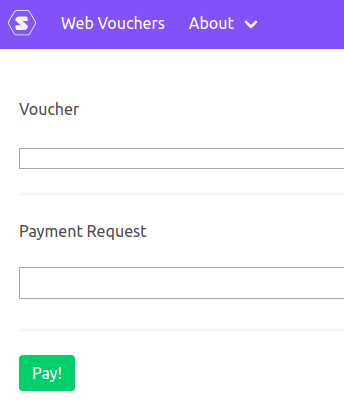
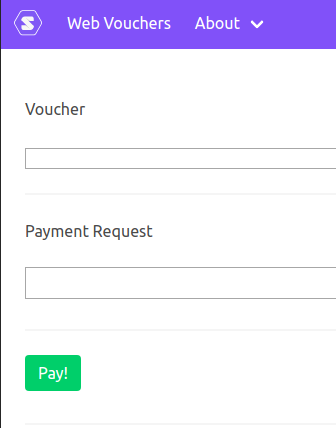
position apps

diff --git a/play/jsx/Index.jsx b/play/jsx/Index.jsx
@@ -108,6 +108,7 @@ function App () {
       title: 'Group URIs',
       image: 'image/groupuris.png'
     },
+    { uri: 'voucher.html', title: 'Web Vouchers', image: 'image/voucher.png' },
     { uri: 'patch.html', title: 'Patch App' },
     { uri: 'touch.html', title: 'Touch App' },
     { uri: 'put.html', title: 'Put App' },
@@ -116,6 +117,12 @@ function App () {
       title: 'Container App',
       image: 'image/container.png'
     },
+    {
+      uri:
+        'mind.html?data=%7B%22nodeData%22%3A%7B%22id%22%3A%22root%22%2C%22topic%22%3A%22Lightning%20games%22%2C%22root%22%3Atrue%2C%22children%22%3A%5B%7B%22topic%22%3A%22released%22%2C%22id%22%3A%22c63b8604ff228829%22%2C%22selected%22%3Atrue%2C%22new%22%3Atrue%2C%22children%22%3A%5B%7B%22topic%22%3A%22donner%20dungeon%22%2C%22id%22%3A%22c63b847b05a5686b%22%2C%22selected%22%3Atrue%2C%22new%22%3Atrue%7D%2C%7B%22topic%22%3A%22poker%22%2C%22id%22%3A%22c63b840e2e19d384%22%2C%22selected%22%3Atrue%2C%22new%22%3Atrue%7D%2C%7B%22topic%22%3A%22agar%22%2C%22id%22%3A%22c631c9cb1d7ff3cf%22%2C%22selected%22%3Atrue%2C%22new%22%3Atrue%2C%22style%22%3A%7B%22color%22%3A%22%23c0392c%22%7D%7D%5D%7D%2C%7B%22topic%22%3A%22coming%20soon%22%2C%22id%22%3A%22c63b869ec834af65%22%2C%22selected%22%3Atrue%2C%22new%22%3Atrue%2C%22children%22%3A%5B%7B%22topic%22%3A%22Infinite%20Fleet%22%2C%22id%22%3A%22c63b898f4420b806%22%2C%22selected%22%3Atrue%2C%22new%22%3Atrue%2C%22style%22%3A%7B%22fontSize%22%3A%2232%22%2C%22color%22%3A%22%2327ae61%22%2C%22fontWeight%22%3A%22bold%22%7D%7D%5D%7D%5D%2C%22expanded%22%3Atrue%2C%22style%22%3A%7B%22color%22%3A%22%23f1c40e%22%7D%7D%2C%22linkData%22%3A%7B%7D%7D',
+      image: 'image/mind.png',
+      title: 'Mind Map App'
+    },
     { uri: 'timeline.html', title: 'Timeline App' },
     {
       uri: 'dashboard.html',
@@ -123,17 +130,10 @@ function App () {
       image: 'image/dashboard.png'
     },
     { uri: 'points.html', title: 'Points App' },
-    {
-      uri:
-        'mind.html?data=%7B%22nodeData%22%3A%7B%22id%22%3A%22root%22%2C%22topic%22%3A%22Lightning%20games%22%2C%22root%22%3Atrue%2C%22children%22%3A%5B%7B%22topic%22%3A%22released%22%2C%22id%22%3A%22c63b8604ff228829%22%2C%22selected%22%3Atrue%2C%22new%22%3Atrue%2C%22children%22%3A%5B%7B%22topic%22%3A%22donner%20dungeon%22%2C%22id%22%3A%22c63b847b05a5686b%22%2C%22selected%22%3Atrue%2C%22new%22%3Atrue%7D%2C%7B%22topic%22%3A%22poker%22%2C%22id%22%3A%22c63b840e2e19d384%22%2C%22selected%22%3Atrue%2C%22new%22%3Atrue%7D%2C%7B%22topic%22%3A%22agar%22%2C%22id%22%3A%22c631c9cb1d7ff3cf%22%2C%22selected%22%3Atrue%2C%22new%22%3Atrue%2C%22style%22%3A%7B%22color%22%3A%22%23c0392c%22%7D%7D%5D%7D%2C%7B%22topic%22%3A%22coming%20soon%22%2C%22id%22%3A%22c63b869ec834af65%22%2C%22selected%22%3Atrue%2C%22new%22%3Atrue%2C%22children%22%3A%5B%7B%22topic%22%3A%22Infinite%20Fleet%22%2C%22id%22%3A%22c63b898f4420b806%22%2C%22selected%22%3Atrue%2C%22new%22%3Atrue%2C%22style%22%3A%7B%22fontSize%22%3A%2232%22%2C%22color%22%3A%22%2327ae61%22%2C%22fontWeight%22%3A%22bold%22%7D%7D%5D%7D%5D%2C%22expanded%22%3Atrue%2C%22style%22%3A%7B%22color%22%3A%22%23f1c40e%22%7D%7D%2C%22linkData%22%3A%7B%7D%7D',
-      image: 'image/mind.png',
-      title: 'Mind Map App'
-    },
     { uri: 'conference.html', title: 'Conference Call' },
     { uri: 'acl.html', title: 'ACL App' },
     { uri: 'solid.html', title: 'Solid App' },
-    { uri: 'rdflib.html', title: 'Test RDFLib' },
-    { uri: 'voucher.html', title: 'Web Vouchers', image: 'image/vaoucher.png' }
+    { uri: 'rdflib.html', title: 'Test RDFLib' }
   ]
 
   var appList = apps.map(app => {
